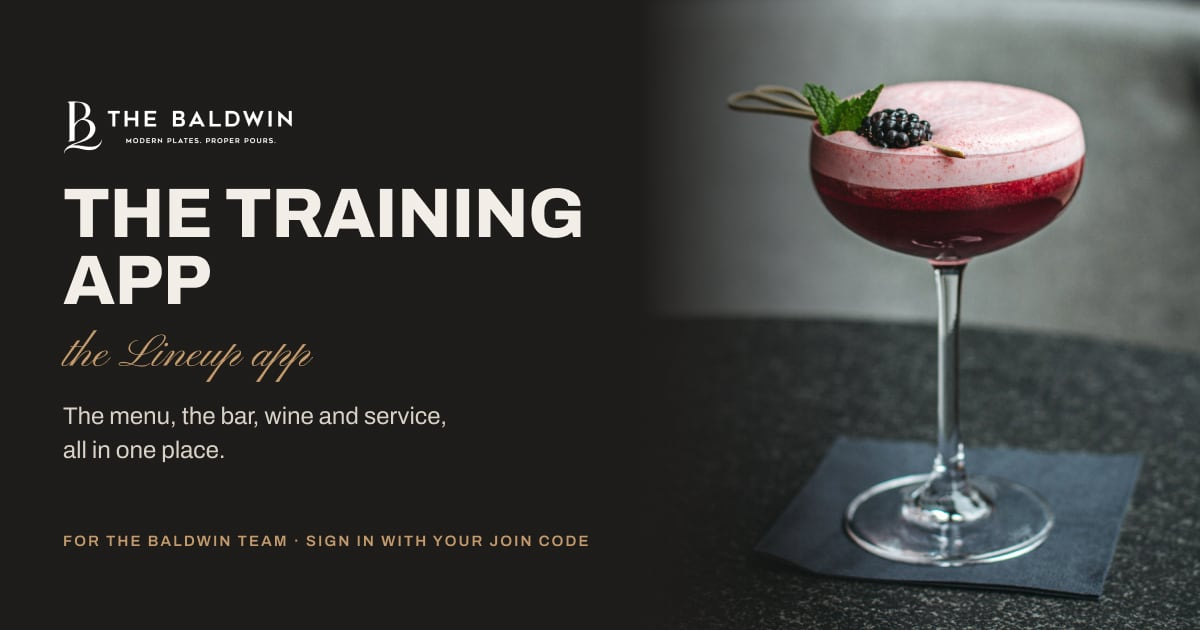
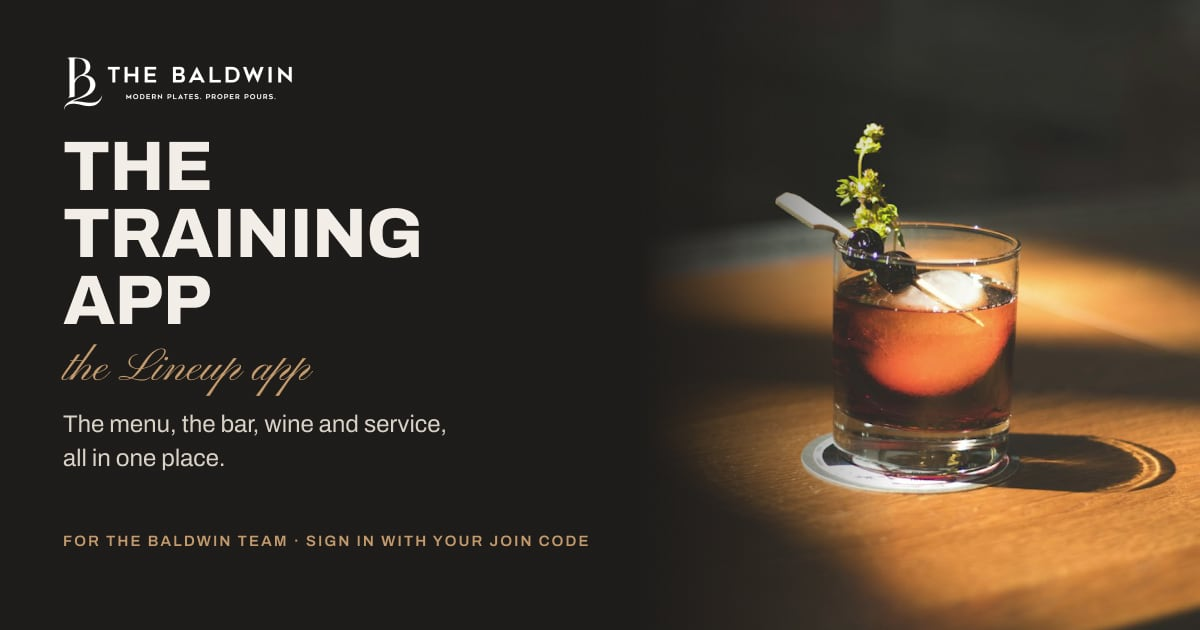
Phone layout pass 1, and the Old Fashioned share card
Phones: tables label each value with its column (header row hides); allergen
guide as chips; mid-width tiles pair up; markers and arrows stay beside their
text; big titles fit; stat boxes stop clipping; Bar tabs 2x2; breadcrumbs on
one line; wine prices stay right; Our Story banner reflows; the service
timeline and thermometer swipe at full size; text inside shrunk frames never
under 11px; 'fill' helpers no longer stretch heights inside columns; linked
rows carry their names. House cocktails with no photo show their glass.
Share card: stacked title, Old Fashioned photo, text lifted to clear the
bottom line.

diff --git a/src/components/FigmaNode.tsx b/src/components/FigmaNode.tsx
@@ -10,6 +10,7 @@ import { AssignName, TableFinder, TableMarker, controlProps, isActive, useIntera
 export type FNode = {
   t: 'F' | 'T' | 'R' | 'E' | 'S';
   n?: string; w: number; h: number; x?: number; y?: number; abs?: 1;
+  lab?: string; empty?: 1; hdr?: 1; // table cells: column label, an empty allergen cell, the header row (phones stack rows)
   sh?: 'F' | 'H' | 'L'; sv?: 'F' | 'H' | 'L';
   op?: number; rot?: number; to?: string; svg?: string;
   f?: { c?: string; o?: number; img?: string; m?: string; g?: [string, number, number][]; gt?: string; ga?: number }[];
@@ -37,6 +38,8 @@ export const SlotContext = createContext<Record<string, Slot>>({});
 export const NavContext = createContext<string>('Home');
 /** True on phones, where rows reflow instead of the page scaling. */
 export const CompactContext = createContext(false);
+/** How much a phone has shrunk the frame we're inside (1 = not shrunk). Text never drops below 11px on screen. */
+const ScaleContext = createContext(1);
 
 /** Scales a fixed-layout frame (absolute children) down to fit a narrow column. */
 function Scaled({ w, h, outer, children }: { w: number; h: number; outer: CSSProperties; children: ReactNode }) {
@@ -51,7 +54,7 @@ function Scaled({ w, h, outer, children }: { w: number; h: number; outer: CSSPro
   }, [w]);
   return (
     <div ref={ref} style={{ ...outer, width: '100%', maxWidth: w, height: h * k, position: 'relative' }}>
-      <div style={{ width: w, height: h, transform: `scale(${k})`, transformOrigin: 'top left' }}>{children}</div>
+      <div style={{ width: w, height: h, transform: `scale(${k})`, transformOrigin: 'top left' }}><ScaleContext.Provider value={k}>{children}</ScaleContext.Provider></div>
     </div>
   );
 }
@@ -121,6 +124,10 @@ function boxStyle(node: FNode, parentLm: 'H' | 'V' | undefined, parentH?: number
     // Hug-height boxes never shrink below their content (clipped boxes otherwise lose their minimum height).
     else st.flexShrink = 0;
   }
+  // Phone helpers: mid-width tiles pair up; small leading markers stay beside their text.
+  if (inFlow && parentLm === 'H' && node.t !== 'T' && node.sh === 'F' && node.w >= 150 && node.w <= 300) cls.push('mid');
+  // (a narrow rail, e.g. a timeline dot and line, counts too)
+  if (inFlow && parentLm === 'H' && node.t !== 'T' && node.w <= 48 && (node.h <= 48 || node.w <= 24)) cls.push('marker');
   if (node.op !== undefined) st.opacity = node.op;
   if (node.rot) { st.transform = `rotate(${-node.rot}deg)`; st.transformOrigin = 'top left'; }
   return { st, cls };
@@ -133,6 +140,8 @@ function textNode(node: FNode, parentLm: 'H' | 'V' | undefined, key?: number) {
   st.fontWeight = WEIGHT[node.fs || 'Regular'] ?? 400;
   if ((node.fs || '').includes('Italic')) st.fontStyle = 'italic';
   st.fontSize = node.z;
+  // Big titles shrink to fit a phone (see .ftext.display in styles.css).
+  if ((node.z || 0) >= 36) { cls.push('display'); (st as Record<string, unknown>)['--z'] = `${node.z}px`; }
   if (node.lh !== undefined) st.lineHeight = typeof node.lh === 'string' ? Number(node.lh.replace('%', '')) / 100 : `${node.lh}px`;
   else st.lineHeight = node.ff === 'Pinyon Script' ? 1.25 : 1.22;
   if (node.ls !== undefined) st.letterSpacing = typeof node.ls === 'string' ? `${Number(node.ls.replace('%', '')) / 100}em` : `${node.ls}px`;
@@ -307,6 +316,7 @@ function Node({ node: drawn, parentLm, parentH, rootStyle }: { node: FNode; pare
   const compact = useContext(CompactContext);
   const slots = useContext(SlotContext);
   const carousel = useContext(CarouselContext);
+  const shrink = useContext(ScaleContext);
   const live = useInteract();
   const [playing, setPlaying] = useState(false);
   // A control is drawn in its current state (ticked / empty, selected / plain).
@@ -320,6 +330,7 @@ function Node({ node: drawn, parentLm, parentH, rootStyle }: { node: FNode; pare
 
   if (node.t === 'T') {
     const { st, cls, content: raw } = textNode(node, parentLm);
+    if (shrink < 1 && node.z && node.z * shrink < 11) st.fontSize = 11 / shrink;
     const content = node.n === 'Carousel count' && carousel ? <span aria-live="polite">{carousel.label}</span> : raw;
     return wrapLink(node, <div className={cls.join(' ')} style={st}>{content}</div>, st, cls);
   }
@@ -430,6 +441,23 @@ function Node({ node: drawn, parentLm, parentH, rootStyle }: { node: FNode; pare
   if (extras.length && !st.position) st.position = 'relative';
   if (compact && !node.lm && node.c && node.w > 200 && parentLm && !node.abs && !rootStyle) {
     const { flex, alignSelf, minWidth, flexShrink, ...inner } = st;
+    // A photo banner with a text block (Our Story): the photo fills behind, the text flows at its own size.
+    const copy = node.c.find((c) => c.n === 'Copy' && c.lm);
+    const bgs = node.c.filter((c) => c !== copy && c.w >= node.w - 2 && c.h >= node.h - 2);
+    if (copy && bgs.length) {
+      const { width, height, ...rest } = inner; void width; void height;
+      return (
+        <div className={cls.concat('hero-flow').join(' ')} style={{ ...rest, flex, alignSelf, position: 'relative', overflow: 'hidden', width: '100%' }} data-name={node.n}>
+          {bgs.map((c, i) => <FigmaNode key={i} node={{ ...c, x: 0, y: 0 }} rootStyle={{ position: 'absolute', inset: 0, width: '100%', height: '100%' }} />)}
+          <div style={{ position: 'relative', padding: '32px 20px' }}><FigmaNode node={{ ...copy, abs: undefined, x: undefined, y: undefined }} parentLm="V" /></div>
+        </div>
+      );
+    }
+    // A wide diagram (the service timeline, the thermometer): full size, swipe sideways.
+    if (node.w >= 900) {
+      const box = <div className={cls.join(' ')} style={{ ...inner, position: 'relative', width: node.w, height: node.h, maxWidth: 'none' }} data-name={node.n}>{kids}</div>;
+      return <div className="swipe-x" style={{ flex, alignSelf, width: '100%', overflowX: 'auto', overflowY: 'hidden' }} role="region" aria-label={node.n} tabIndex={0}>{box}</div>;
+    }
     const box = <div className={cls.join(' ')} style={{ ...inner, position: 'relative', width: node.w, height: node.h, maxWidth: 'none' }} data-name={node.n}>{kids}</div>;
     const scaled = <Scaled w={node.w} h={node.h} outer={{ flex, alignSelf, minWidth, flexShrink }}>{box}</Scaled>;
     return node.to ? wrapLink(node, <div>{scaled}</div>, {}, ['fn']) : scaled;
@@ -446,11 +474,11 @@ function Node({ node: drawn, parentLm, parentH, rootStyle }: { node: FNode; pare
     return <div ref={carousel.setEl} className={cls.concat('carousel').join(' ')} style={{ ...st, overflowX: 'auto', overflowY: 'hidden' }} data-name={node.n} tabIndex={0} aria-label={node.n!.split(' · ')[1]} role="region">{kids}</div>;
   }
   const el = ctl && !node.to ? (
-    <div className={cls.join(' ')} style={st} data-name={node.n} aria-label={node.n?.split(' · ').slice(1).join(' · ') || undefined} {...ctl}>
+    <div className={cls.join(' ')} style={st} data-name={node.n} data-label={node.lab} data-empty={node.empty} data-head={node.hdr} aria-label={node.n?.split(' · ').slice(1).join(' · ') || undefined} {...ctl}>
       {kids}
     </div>
   ) : (
-    <div className={cls.join(' ')} style={st} role={role} aria-label={label} data-name={node.n}>
+    <div className={cls.join(' ')} style={st} role={role} aria-label={label} data-name={node.n} data-label={node.lab} data-empty={node.empty} data-head={node.hdr}>
       {kids}
     </div>
   );
@@ -463,13 +491,13 @@ function wrapLink(node: FNode, el: ReactNode, st: CSSProperties, cls: string[]) 
   // Outside sources (Wine Folly, Vivino, producer sites) open in a new tab.
   if (/^https?:\/\//.test(node.to)) {
     return (
-      <a href={node.to} target="_blank" rel="noopener noreferrer" className={cls.concat('flink').join(' ')} style={{ ...st, display: st.display || 'block', color: 'inherit', textDecoration: 'none' }} aria-label={label}>
+      <a href={node.to} target="_blank" rel="noopener noreferrer" className={cls.concat('flink').join(' ')} style={{ ...st, display: st.display || 'block', color: 'inherit', textDecoration: 'none' }} aria-label={label} data-name={node.n} data-label={node.lab} data-head={node.hdr}>
         {(el as { props: { children?: ReactNode } }).props.children}
       </a>
     );
   }
   return (
-    <Link to={node.to} className={cls.concat('flink').join(' ')} style={{ ...st, display: st.display || 'block', color: 'inherit', textDecoration: 'none' }} aria-label={label}>
+    <Link to={node.to} className={cls.concat('flink').join(' ')} style={{ ...st, display: st.display || 'block', color: 'inherit', textDecoration: 'none' }} aria-label={label} data-name={node.n} data-label={node.lab} data-head={node.hdr}>
       {(el as { props: { children?: ReactNode } }).props.children}
     </Link>
   );

diff --git a/src/styles.css b/src/styles.css
@@ -655,3 +655,67 @@ h2.sub { margin: 18px 0 0; font-size: 18px; font-weight: 800; }
 /* Home dashboard: cards size to their content; on desktop the row makes them one height. */
 @media (min-width: 860px) { [data-name="Section · Dashboard"] [data-name="Cards"] { align-items: stretch !important; } }
 @media (max-width: 859px) { [data-name="Section · Dashboard"] [data-name="Cards"] > * > * { flex: none !important; } }
+
+/* ---- phone pass (Oct 29, Tommy: "make sure that the mobile formatting is good too") ---- */
+@media (max-width: 859px) {
+  /* Tables: the header row hides; each value says which column it's from. */
+  [data-head] { display: none !important; }
+  [data-label]::before { content: attr(data-label); display: block; flex: 0 0 100%; font: 600 10.5px/1.3 'Archivo', sans-serif; letter-spacing: .12em; text-transform: uppercase; color: #8A5A3A; margin-bottom: 3px; white-space: normal; }
+  [data-label] { width: auto !important; flex: 1 1 140px !important; min-width: 0; height: auto !important; }
+  [data-empty] { display: none !important; }
+  /* Mid-width tiles (photo cards, bottle cards, browse tiles) pair up instead of sitting in one narrow column. */
+  .fx-h > .mid { flex: 1 1 150px !important; width: auto !important; max-width: 100% !important; }
+  /* A small marker (number, dot, icon, thumbnail) stays beside its text. */
+  .fx-h:has(> .marker:first-child) { flex-wrap: nowrap !important; }
+  .fx-h:has(> .marker:first-child) > :not(.marker) { flex: 1 1 0 !important; min-width: 0; width: auto !important; }
+  /* A trailing arrow stays at the end of its line. */
+  .fx-h:has(> .fsvg:last-child):not(:has(> .marker:first-child)) { flex-wrap: nowrap !important; }
+  .fx-h:has(> .fsvg:last-child):not(:has(> .marker:first-child)) > .ftext { flex: 0 1 auto !important; min-width: 0; width: auto !important; }
+  /* Big titles fit the screen. */
+  .ftext.display { font-size: min(var(--z), 11.5vw) !important; overflow-wrap: anywhere; }
+  /* Stat boxes: rows grow with their text instead of clipping it. */
+  [data-name="Stats"] > *, [data-name="Stats"] > * > * { height: auto !important; overflow: visible !important; }
+  /* Tab bars: a 2-up grid, no orphan tab on its own row. */
+  [data-name="Bar tabs"], [data-name="Tabs"] { display: grid !important; grid-template-columns: 1fr 1fr; width: 100% !important; }
+  [data-name="Bar tabs"] > *, [data-name="Tabs"] > * { width: auto !important; justify-content: center !important; }
+  [data-name="Tabs wrap"] { width: 100% !important; }
+  /* Breadcrumbs stay on one line; the last part trims. */
+  [data-name="Breadcrumb"] { flex-wrap: nowrap !important; overflow: hidden; }
+  [data-name="Breadcrumb"] > .ftext:last-child { overflow: hidden; text-overflow: ellipsis; min-width: 0; flex: 0 1 auto !important; }
+  /* Photo banners that reflow (Our Story): text sizes come back to normal. */
+  .hero-flow .ftext { max-width: 100%; white-space: normal !important; }
+  .hero-flow [data-name="Copy"] { width: 100% !important; height: auto !important; }
+  /* Wide diagrams swipe sideways. */
+  .swipe-x { -webkit-overflow-scrolling: touch; scrollbar-width: thin; }
+}
+@media (max-width: 859px) {
+  /* Markers keep their own size (a number circle doesn't stretch into a pill). */
+  .fx-h > .marker { flex: none !important; align-self: flex-start !important; }
+  /* Stat boxes never squeeze below their content. */
+  [data-name="Stats"] { flex-shrink: 0 !important; height: auto !important; overflow: visible !important; }
+  /* Allergen Guide: each dish lists the allergens it has as small chips (name + mark). */
+  [data-name="Allergen grid"] [data-name^="Row · "] { flex-wrap: wrap !important; height: auto !important; gap: 6px !important; padding-top: 10px !important; padding-bottom: 10px !important; }
+  [data-name="Allergen grid"] [data-name^="Row · "] > :first-child { flex: 1 1 100% !important; width: auto !important; height: auto !important; }
+  [data-name="Allergen grid"] [data-label] { flex: 0 0 auto !important; width: auto !important; height: auto !important; flex-direction: row !important; flex-wrap: nowrap !important; align-items: center !important; gap: 6px; padding: 3px 4px 3px 10px; border-radius: 999px; background: #F3EEE6; overflow: visible !important; }
+  [data-name="Allergen grid"] [data-label]::before { flex: none; margin: 0; color: #1E1C1A; letter-spacing: .08em; }
+  /* People rows (Our Story): name over description, rows grow with the text. */
+  [data-name^="Person · "] { flex-direction: column !important; height: auto !important; gap: 2px !important; }
+  [data-name^="Person · "] > * { width: auto !important; flex: none !important; height: auto !important; }
+  /* Wine lists: prices stay on the right; the name wraps beside them. */
+  [data-name^="Wine · "]:has(> [data-name="Prices"]) { flex-wrap: nowrap !important; }
+  [data-name^="Wine · "]:has(> [data-name="Prices"]) > [data-name="Name"] { flex: 1 1 auto !important; min-width: 0; width: auto !important; }
+  [data-name^="Wine · "]:has(> [data-name="Prices"]) > [data-name="Name"] .ftext { white-space: normal !important; width: auto !important; }
+  [data-name^="Wine · "] > [data-name="Prices"] { flex: 0 0 auto !important; }
+}
+@media (max-width: 859px) {
+  /* "Fill the row" helpers only mean width: inside a column they must not stretch the height. */
+  .fx-v > .wide, .fx-v > .mid, .fx-v > .fill-h { flex-grow: 0 !important; flex-basis: auto !important; }
+  [data-name^="Person · "].fx-h > * { flex: none !important; width: auto !important; }
+  [data-name="People"] { min-height: 0 !important; justify-content: flex-start !important; }
+}
+@media (max-width: 859px) {
+  /* A row of tiles takes the full width, so its tiles can pair up. */
+  .fx-v > .fx-h:has(> .mid) { align-self: stretch !important; width: auto !important; }
+  /* Home's Food Matrix preview: the media counts aren't needed on a phone. */
+  [data-name="Section · Food Matrix"] [data-label="MEDIA"] { display: none !important; }
+}

diff --git a/index.html b/index.html
@@ -12,14 +12,14 @@
     <meta property="og:title" content="The Training App" />
     <meta property="og:description" content="The menu, the bar, wine and service, all in one place. On the Lineup app, for The Baldwin team." />
     <meta property="og:url" content="https://web-production-a7ffc.up.railway.app/" />
-    <meta property="og:image" content="https://web-production-a7ffc.up.railway.app/share.jpg?v=3" />
+    <meta property="og:image" content="https://web-production-a7ffc.up.railway.app/share.jpg?v=4" />
     <meta property="og:image:width" content="1200" />
     <meta property="og:image:height" content="630" />
-    <meta property="og:image:alt" content="The Training App, the Lineup app: the Baldwin logo and the Fuschia Satin cocktail." />
+    <meta property="og:image:alt" content="The Training App, the Lineup app: the Baldwin logo and an Old Fashioned." />
     <meta name="twitter:card" content="summary_large_image" />
     <meta name="twitter:title" content="The Training App" />
     <meta name="twitter:description" content="The menu, the bar, wine and service, all in one place. On the Lineup app." />
-    <meta name="twitter:image" content="https://web-production-a7ffc.up.railway.app/share.jpg?v=3" />
+    <meta name="twitter:image" content="https://web-production-a7ffc.up.railway.app/share.jpg?v=4" />
     <link rel="preconnect" href="https://fonts.googleapis.com" />
     <link rel="preconnect" href="https://fonts.gstatic.com" crossorigin />
     <link href="https://fonts.googleapis.com/css2?family=Archivo:ital,wght@0,400;0,500;0,600;0,700;0,800;1,400&family=Pinyon+Script&display=swap" rel="stylesheet" />
